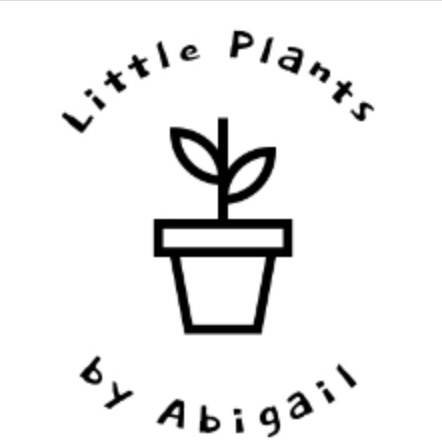
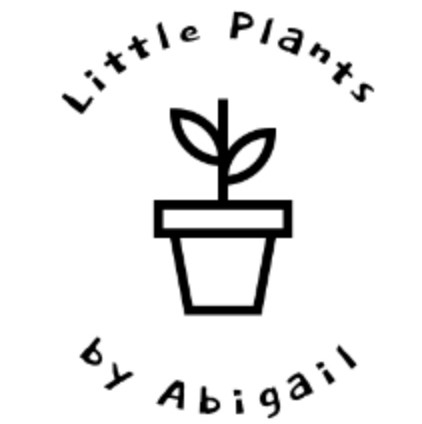
content javascript style

diff --git a/index.html b/index.html
@@ -23,7 +23,7 @@
            <div class="container">
            <div class="navbar-header">
 
-           <img class="img-fluid" src="/pics/IMG_4550.jpg" alt="Little Plants Logo"/>
+           <img class="img-fluid" src="/pics/IMG_4550.jpg" alt="Logo"/>
            </div>
 
            <nav class="navbar navbar-expand-lg navbar-collapse-right">
@@ -34,9 +34,15 @@
               </button>
               <div class="collapse navbar-collapse" id="navbarNav">
                 <ul class="navbar-nav">
-                  <li class="nav-item">
-                    <a class="nav-link active" aria-current="page" href="#">Seeds</a>
-                  </li>
+                    <li class="nav-item dropdown">
+                    <a class="nav-link dropdown-toggle" data-bs-toggle="dropdown" href="#" role="button" aria-expanded="false">Seeds</a>
+                        <ul class="dropdown-menu">
+                         <li><hr class="dropdown-divider"></li>
+                         <li><a class="dropdown-item" href="#">Strawberry</a></li>
+                         <li><hr class="dropdown-divider"></li>
+                         <li><a class="dropdown-item" href="#">Pumpkin</a></li>
+                        </ul>   
+                     </li>  
                   <li class="nav-item">
                     <a class="nav-link" href="#">Planting Tips</a>
                   </li>
@@ -49,26 +55,23 @@
                 </ul>
               </div>
             </div>
-        
-         </nav>  
+          </nav>  
         </header>
+        <br>
+        <br>
 
-        <div class="container">
-         <div class="clearfix">
-             <img  src="/pics/IMG_2594.jpg"class="col-md-6 float-md-end mb-3 ms-md-3" alt="Abigail"/> 
-            <p>
-              A paragraph of placeholder text. We're using it here to show the use of the clearfix class. We're adding quite a few meaningless phrases here to demonstrate how the columns interact here with the floated image.
+        <div class="container clearfix">
+         <div class="row">
+             <div class= "col text-left">
+             <img  src="/pics/IMG_2594.jpg"class="img-fluid col-sm-4" alt="Abigail"/> 
+             A paragraph of placeholder text. We're using it here to show the use of the clearfix class. We're adding quite a few meaningless phrases here to demonstrate how the columns interact here with the floated image.
+             <div class="row">
+                <div class= "col text-left">
+                 <p>As you can see the paragraphs gracefully wrap around the floated image. Now imagine how this would look with some actual content in here, rather than just this boring placeholder text that goes on and on, but actually conveys no tangible information at. It simply takes up space and should not really be read.
+                 And yet, here you are, still persevering in reading this placeholder text, hoping for some more insights, or some hidden easter egg of content. A joke, perhaps. Unfortunately, there's none of that here.
             </p>
-          
-            <p>
-              As you can see the paragraphs gracefully wrap around the floated image. Now imagine how this would look with some actual content in here, rather than just this boring placeholder text that goes on and on, but actually conveys no tangible information at. It simply takes up space and should not really be read.
-            </p>
-          
-            <p>
-              And yet, here you are, still persevering in reading this placeholder text, hoping for some more insights, or some hidden easter egg of content. A joke, perhaps. Unfortunately, there's none of that here.
-            </p>
-          </div>     
-          </div>
+            </div>    
+        </div>
        
  
 
@@ -76,7 +79,7 @@
 
 
 
-
+        <script src="app.js"></script>
 
 
     

diff --git a/style.css b/style.css
@@ -4,22 +4,23 @@ padding: 0;
 
 
 }
-.header
-{
-    height: 100vh;
-}
+
 .navbar-style 
 {
-    box-shadow: 0 5px 10px #85ca98;
+    box-shadow: 10px 10px 30px #85ca98;
+    border-radius: 35px;
+    border-top-color: #85ca98;
+    margin: 20px 20px 20px 20px;
    
 }
-.logo
+.Logo
 {
-    height: 250px;
-    padding: 10px 5px;
+    height: 15px;
+    padding: 10px 10px;
 }
 
 .clearfix 
 {
     background-color: #85ca98;
+    padding: 30px 30px 30px 30px;
 }

diff --git a/app.js b/app.js
@@ -1,0 +1,9 @@
+var dropdownElementList = [].slice.call(document.querySelectorAll('.dropdown-toggle'))
+var dropdownList = dropdownElementList.map(function (dropdownToggleEl) {
+  return new bootstrap.Dropdown(dropdownToggleEl)
+})
+
+var myDropdown = document.getElementById('myDropdown')
+myDropdown.addEventListener('show.bs.dropdown', function () {
+//...do something
+})
